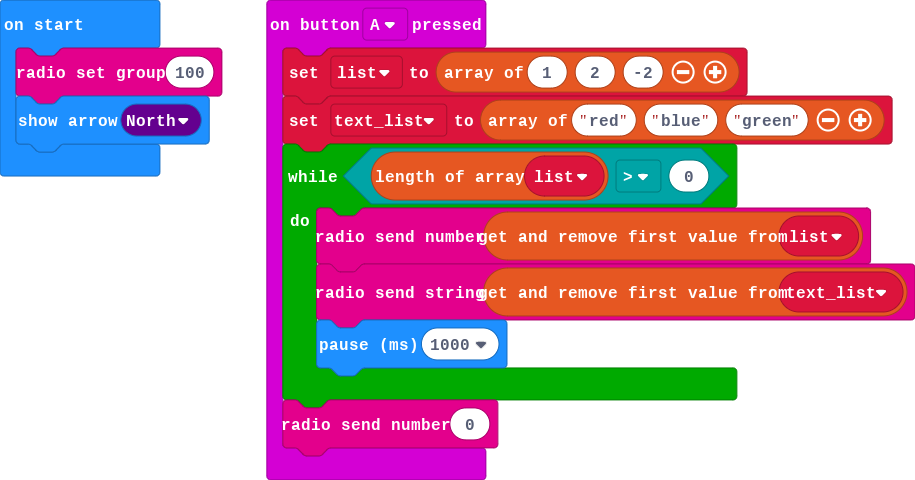
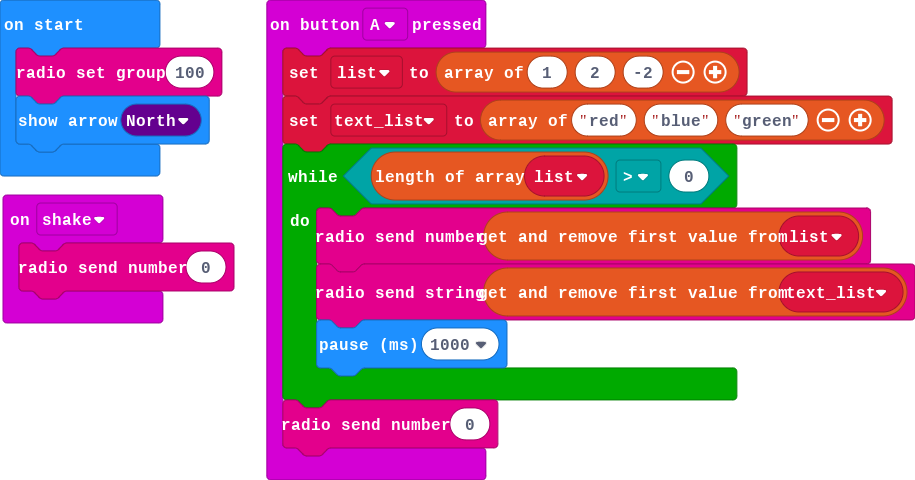
Update pxt.json, main.blocks, main.ts

Changed region(s): [[0.0, 0.4062, 0.2754, 0.6875]]

diff --git a/main.ts b/main.ts
@@ -1,3 +1,6 @@
+input.onGesture(Gesture.Shake, function () {
+    radio.sendNumber(0)
+})
 input.onButtonPressed(Button.A, function () {
     list = [1, 2, -2]
     text_list = ["red", "blue", "green"]
